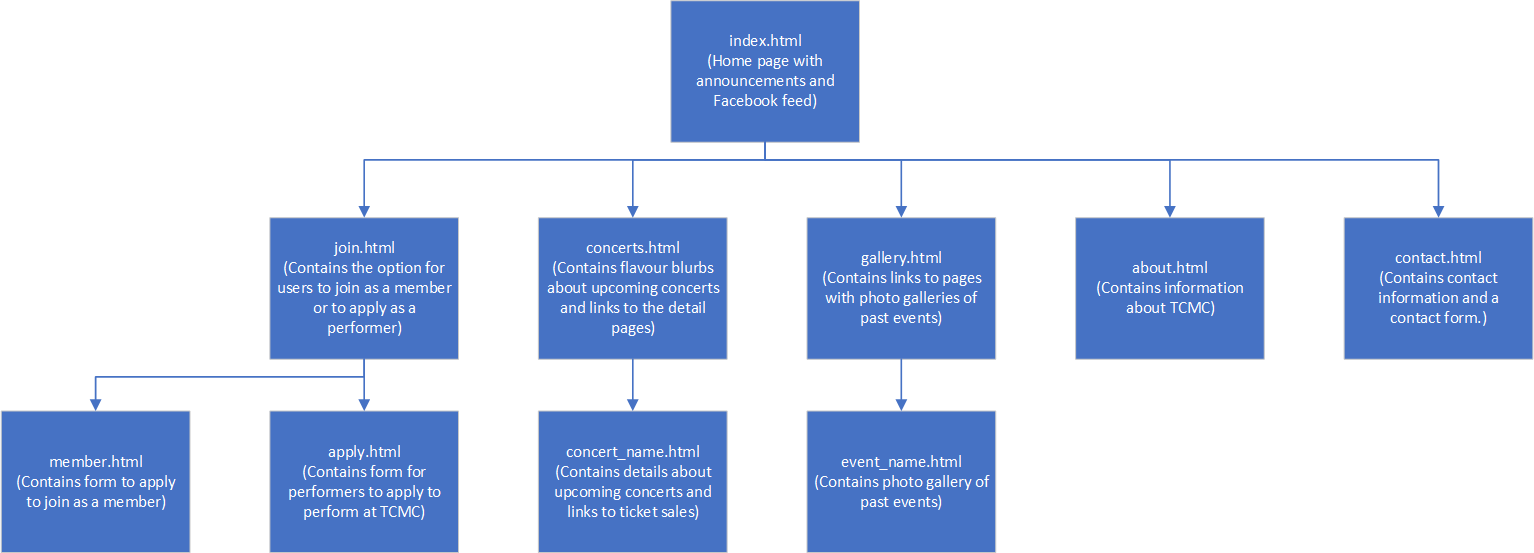
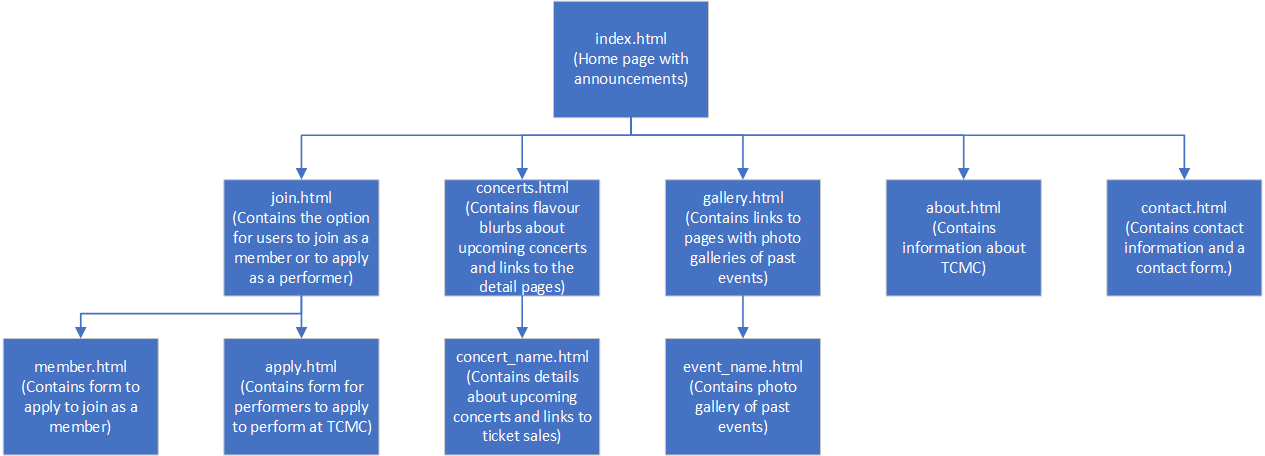
add text row formatting

diff --git a/about.html b/about.html
@@ -25,43 +25,25 @@
         </a>
     </div>
 	<div id="content">
-        <div class="content-cell"><a href="">
-        <img src="images/bulletin/JohnRouvas01.jpg" alt="image"/>
+        <div class="content-row-left">
+        <img src="images/events/AttoriKim01.jpg" alt="image" />
         <h1>About us</h1>
-        <h2>12/12/2012</h2>
-    	<p>Townsville Community Music Centre is a not-for-profit, incorporated organisation serving musicians and their audience in North Queensland. The Music Centre's role includes facilitation, presentation and promotion of events, functions, education, workshops, concerts, festivals in Townsville, and surrounding centres.
+        <p>Townsville Community Music Centre is a not-for-profit, incorporated organisation serving musicians and their audience in North Queensland. The Music Centre's role includes facilitation, presentation and promotion of events, functions, education, workshops, concerts, festivals in Townsville, and surrounding centres.
 Based in Townsville, North Queensland, Australia, it promotes local artists and presents performances by inter- and intra-state and international artists.
 It is involved in the instigation of projects based on cross collaboration with other artistic disciplines, and it promotes the work of North Queensland musicians outside the region, organising tours and promoting their work.
 The Music Centre offers various levels of membership. To join and experience the benefits that membership provides when using this site please click here to join now. You can also join by printing out the form found at the bottom of this page. 
 </p>
-        </a></div>
-        <div class="content-cell"><a href="">
-        <img src="images/bulletin/JohnRouvas01.jpg" alt="image"/>
-        <h1>About us</h1>
-    	<p>Content</p>
-        </a></div>
-        <div class="content-cell"><a href="">
-        <img src="images/bulletin/JohnRouvas01.jpg" alt="image"/>
-        <h1>About us</h1>
-    	<p>Content</p>
-        </a></div>
-        <div class="content-cell"><a href="">
-        <img src="images/bulletin/JohnRouvas01.jpg" alt="image"/>
-        <h1>About us</h1>
-    	<p>Content</p>
-        </a></div>
-        <div class="content-cell"><a href="">
-        <img src="images/bulletin/JohnRouvas01.jpg" alt="image"/>
-        <h1>About us</h1>
-    	<p>Content</p>
-        </a></div>
-        <div class="content-cell"><a href="">
-        <img src="images/bulletin/JohnRouvas01.jpg" alt="image"/>
-        <h1>About us</h1>
-    	<p>Content</p>
-        </a></div>
-        
         </div>
+        <div class="content-row-right">
+        <img src="images/events/AttoriKim01.jpg" alt="image" />
+        <h1>About us</h1>
+        <p>Townsville Community Music Centre is a not-for-profit, incorporated organisation serving musicians and their audience in North Queensland. The Music Centre's role includes facilitation, presentation and promotion of events, functions, education, workshops, concerts, festivals in Townsville, and surrounding centres.
+Based in Townsville, North Queensland, Australia, it promotes local artists and presents performances by inter- and intra-state and international artists.
+It is involved in the instigation of projects based on cross collaboration with other artistic disciplines, and it promotes the work of North Queensland musicians outside the region, organising tours and promoting their work.
+The Music Centre offers various levels of membership. To join and experience the benefits that membership provides when using this site please click here to join now. You can also join by printing out the form found at the bottom of this page. 
+</p>
+        </div>
+    </div>
 	<div id="footer">
     <div class="footer-cell">
 <iframe src="https://www.facebook.com/plugins/page.php?href=https%3A%2F%2Fwww.facebook.com%2Ftownsvillemusic%2F&tabs=timeline&width=340&height=500&small_header=true&adapt_container_width=true&hide_cover=false&show_facepile=true&appId" width="500" height="500" style="border:none;overflow:hidden" scrolling="no" frameborder="0" allowTransparency="true" allow="encrypted-media"></iframe>

diff --git a/main_style.css b/main_style.css
@@ -19,6 +19,8 @@ body {
 	font-size:1em;
 }
 
+
+
 /* The default behavior of links*/
 a {
 	text-decoration:none;
@@ -42,9 +44,43 @@ a:hover {
 
 /*This block controls the banner*/
 #banner {
+	position:relative;
 	background-color:#903;
 	height:30em;
 	width:100%;
+	overflow:visible;
+}
+
+#banner-animation-1{
+	position:absolute;
+	top:0;
+	left:0;
+	width:100%;
+	height:30em;
+	animation: banner 5s infinite alternate ease-in-out;
+	background-image:url(images/events/Harmonious400.jpg);
+	background-repeat:no-repeat;
+	background-size:100%;
+}
+
+#banner-animation-2{
+	position:absolute;
+	top:0;
+	left:0;
+	width:100%;
+	height:30em;
+	animation: banner 5s infinite alternate ease-in-out;
+	animation-delay:-5s;
+	background-image:url(images/events/TGOorch300.jpg);
+	background-repeat:no-repeat;
+	background-size:100%;
+}
+
+@keyframes banner{
+	0% {opacity:1;}
+	45% {opacity:1;}
+	55% {opacity:0;}
+	100% {opacity:0;}
 }
 
 /*This block contols the main body of content*/
@@ -54,7 +90,6 @@ a:hover {
 	height:auto;
 	padding-left:10%;
 	padding-right:5%;
-	margin-bottom:0px/*Height of footer*/
 }
 
 #content::after{
@@ -66,23 +101,118 @@ a:hover {
 /*This block controls the footer*/
 #footer{
 	position:relative;
+	width:80%;
+	height:auto;
+	padding-left:10%;
+	padding-right:10%;
+	background-color:inherit;
+}
+
+#footer::after{
+	clear:both;
+	display:table;
+	content:"";
+}
+
+/*This containst the copyright information at the bottom.*/
+#ender{
+	position:relative;
 	text-align:center;
 	width:100%;
 	background-color:inherit;
-	height:60px;/*Height of footer*/
 }
+
 
 /*These contain content to be displayed in a 3*X grid format.*/
-.content_cell{
+.content-cell{
 	float:left;
-	width:26%;
+	width:20em;
 	height:30em;
-	margin:2%;
+	margin:4em 4% 4em 0;
 	overflow:hidden;
-	/*border: #000 thin solid;*/
 }
 
-.content_cell img{
+.content-cell h1{
+	text-transform:capitalize;
+	text-align:center;
+	margin-bottom:0;
+}
+
+.content-cell h2{
+	text-transform:uppercase;
+	text-align:center;
+	font-size:0.9em;
+	font-weight:700;
+	font-style:oblique;
+	margin-top:0;
+}
+
+.content-cell img{
+	display:block;
+	max-width:auto;
+	max-height:38%;
+	margin-left:auto;
+	margin-right:auto;
+}
+
+/*These contain content to be displayed in a single row with the image to the left.*/
+.content-row-left{
+	padding:2em;
+	width:80%;
+	height:auto;
+}
+
+.content-row-left h1{
+	text-transform:capitalize;
+	text-align:left;
+}
+
+.content-row-left p{
+	text-align:justify;
+}
+
+.content-row-left img{
+	float:left;
+	margin-right:2em;
+	margin-bottom:1em;
+}
+
+/*These contain content to be displayed in a single row with the image to the right.*/
+.content-row-right{
+	padding:2em;
+	width:80%;
+	height:auto;
+}
+
+.content-row-right h1{
+	text-transform:capitalize;
+	text-align:right;
+}
+
+.content-row-right p{
+	text-align:justify;
+}
+
+.content-row-right img{
+	float:right;
+	margin-left:2em;
+	margin-bottom:1em;
+}
+
+/*These contain content to be displayed in a 2*X grid format.*/
+.footer-cell{
+	float:left;
+	width:38%;
+	height:auto;
+	margin:2%;
+}
+
+.footer-cell h1{
+	font-size:1.7em;
+	font-weight:bold;
+}
+
+.footer-cell img{
 	display:block;
 	max-width:auto;
 	max-height:40%;

diff --git a/Plan.html b/Plan.html
@@ -42,7 +42,7 @@
 <p>The target audeience of the site will be adults with an interest in live performance music. To cater to them, the site will be designed with "mellow" being the core theme. The site should promote the idea of attending musical concerts as a method of relaxing and culturally enriching themselves (and their families).</p>
 <h2>Content</h2>
 <ul>
-<li>Home page (contains announcements and facebook feed)</li>
+<li>Home page (contains announcements)</li>
 <li>Join us (contains selection to choose between the following)
 <ul>
 <li>Join as a member</li>
@@ -53,7 +53,7 @@
 <li>About us (contains general information about TCMC, history, people and contact information)</li>
 </ul>
 <h2>Site Flowchart</h2>
-<img src="TCMC Images Docs/flowchart/TCMC_flowchart.png" alt="flowchart"/>
+<img src="images/flowchart/TCMC_flowchart.png" alt="flowchart"/>
 <h2>Comps</h2>
 <p>provide links here to your 2 comps (images or Web pages)</p>
 <ul>
